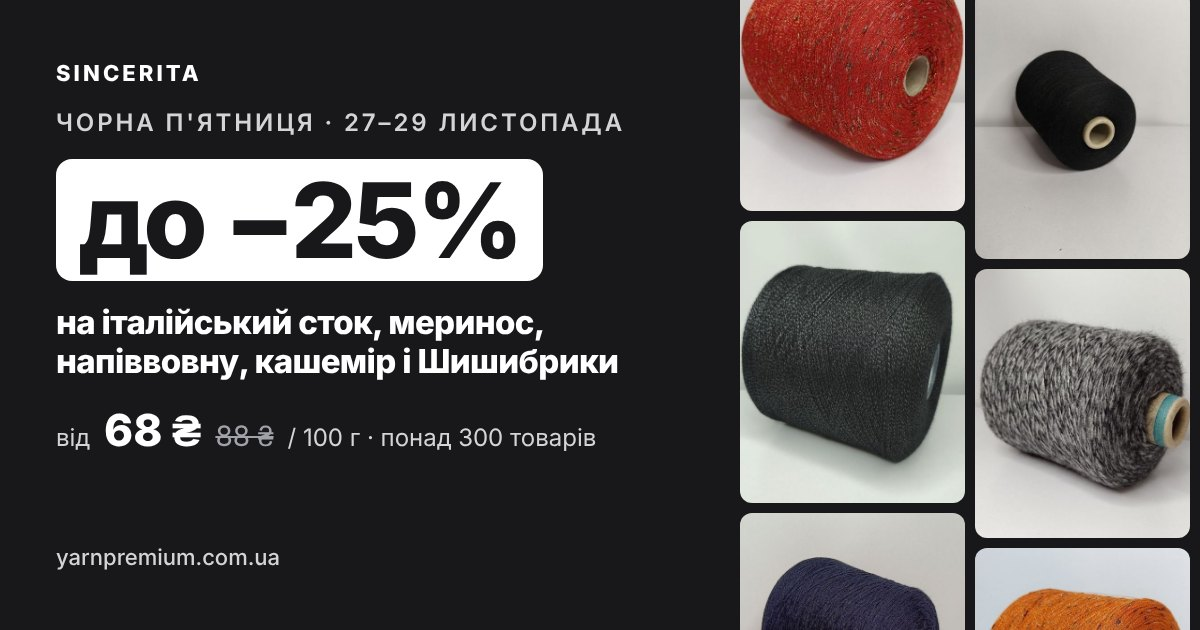
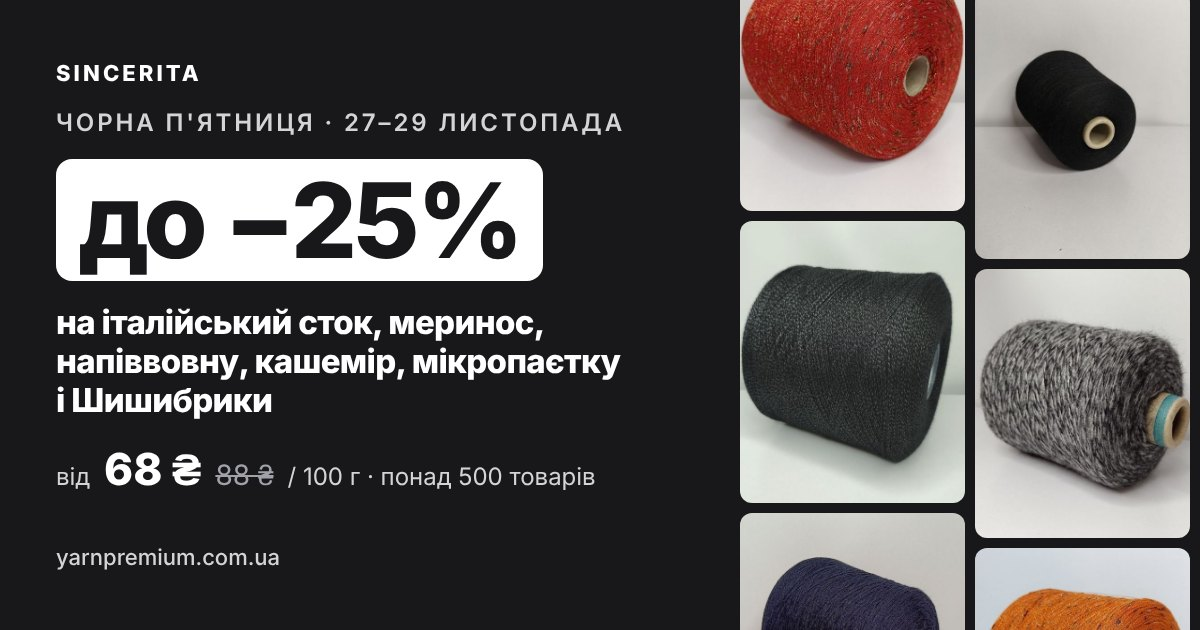
Black Friday: micro-sequins (file 7), 11 SKUs, 240 → 180 ₴ (−25%)
Claude-Session: https://claude.ai/code/session_013udC3EiEZhSB9mKebvxyNz

Changed region(s): [[0.0308, 0.6032, 0.4933, 0.7841], [0.3083, 0.5429, 0.5242, 0.6032]]

diff --git a/lib/promo-files/index.ts b/lib/promo-files/index.ts
@@ -4,7 +4,8 @@ import f_italiiskyi_stok from "./italiiskyi-stok.json"
 import f_kashemir_z_shovkom from "./kashemir-z-shovkom.json"
 import f_kashemir from "./kashemir.json"
 import f_merynos from "./merynos.json"
+import f_mikropaietka from "./mikropaietka.json"
 import f_napivvovna from "./napivvovna.json"
 import f_shyshybryky_700 from "./shyshybryky-700.json"
 
-export const PROMO_FILES: PromoFile[] = [f_italiiskyi_stok, f_kashemir_z_shovkom, f_kashemir, f_merynos, f_napivvovna, f_shyshybryky_700]
+export const PROMO_FILES: PromoFile[] = [f_italiiskyi_stok, f_kashemir_z_shovkom, f_kashemir, f_merynos, f_mikropaietka, f_napivvovna, f_shyshybryky_700]
